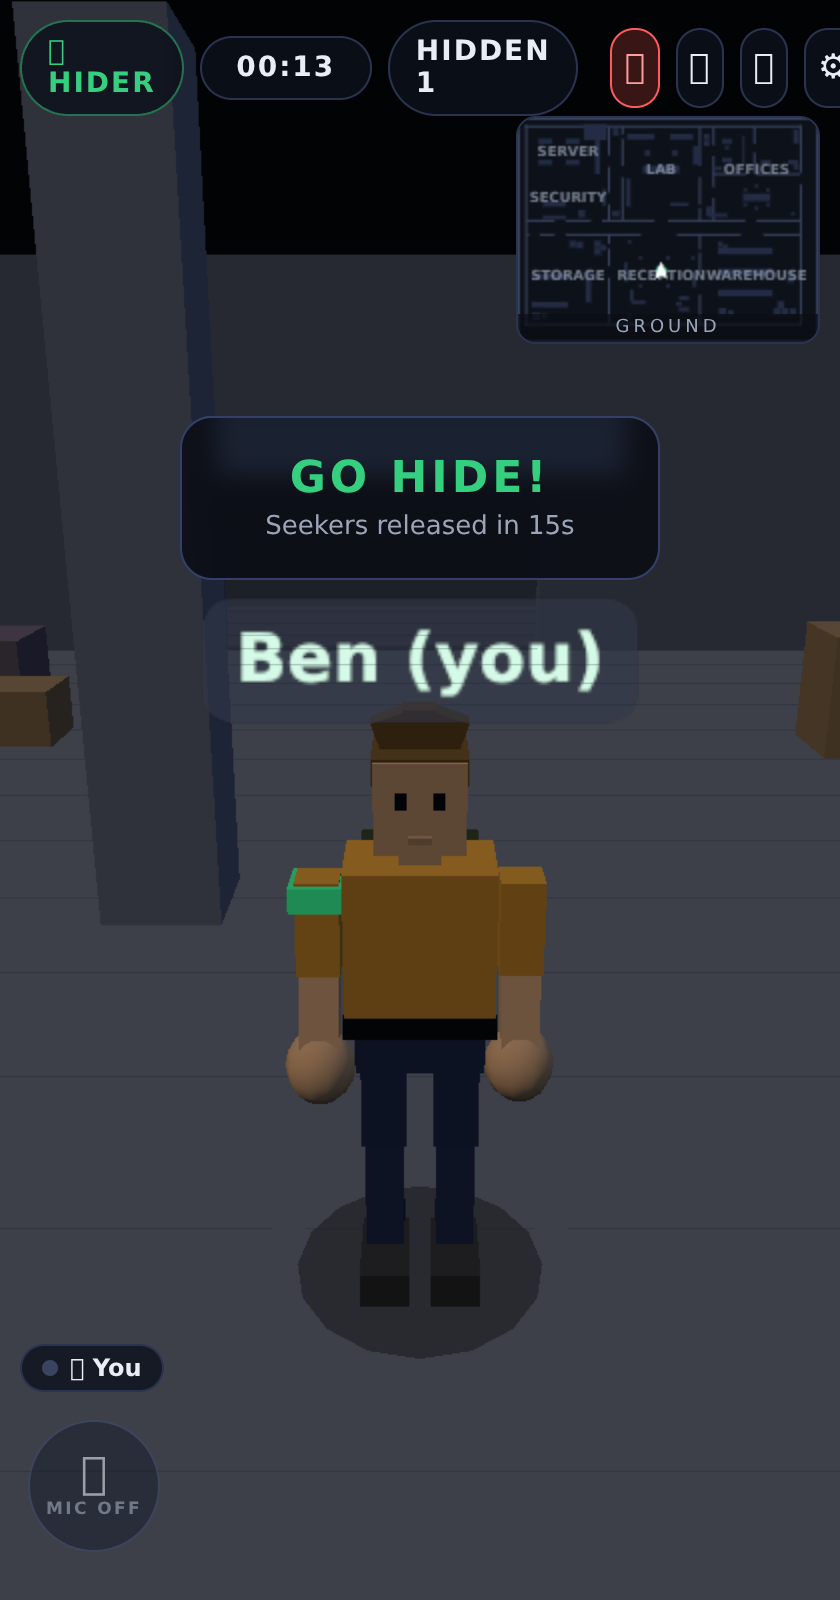
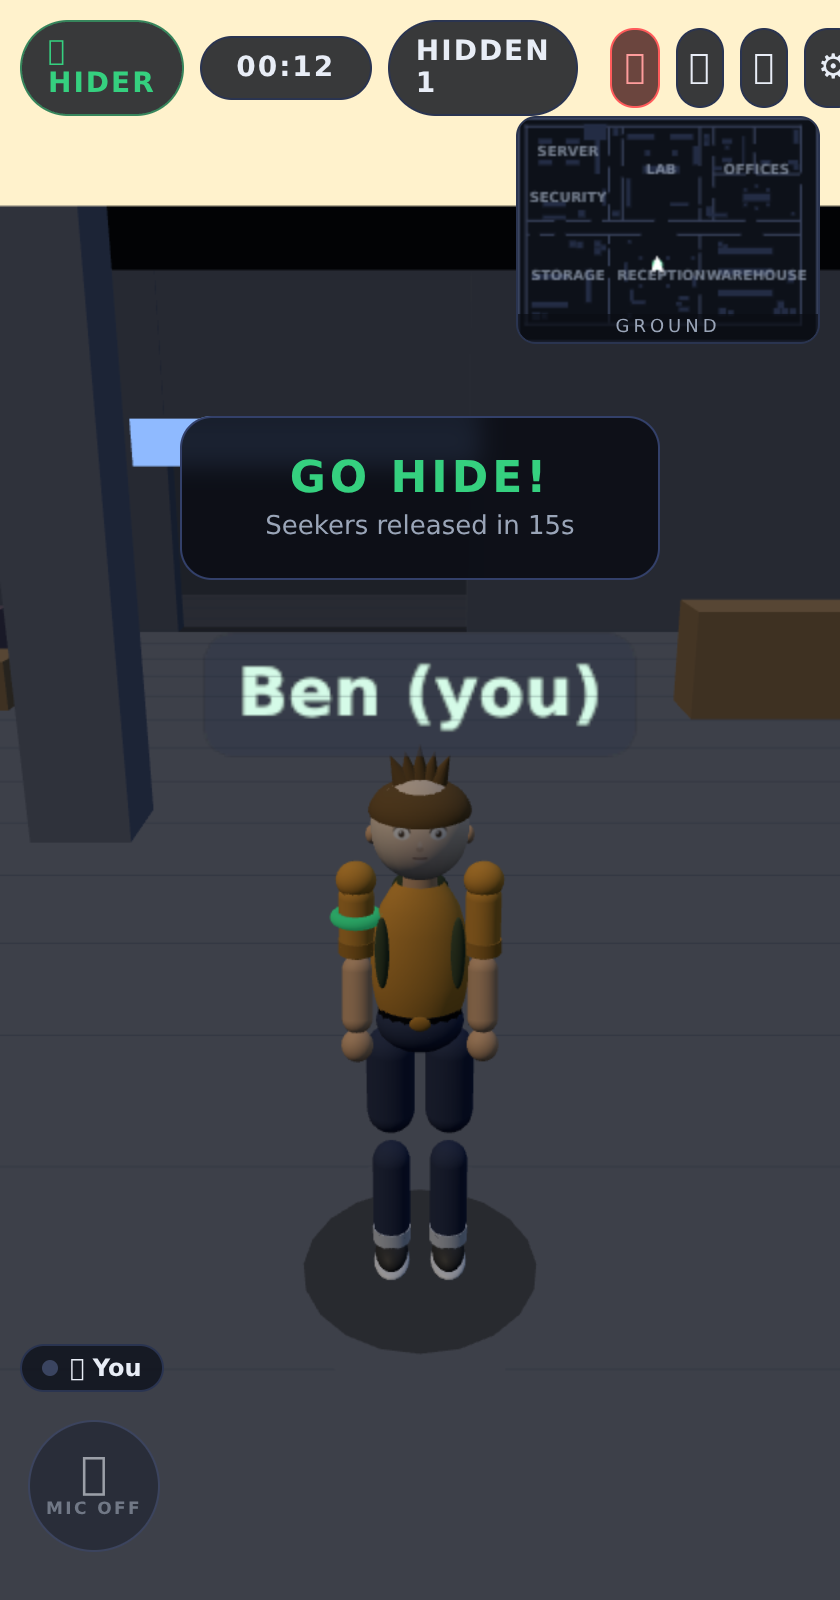
docs: refresh README screenshots with painted-face characters + crates; document new tools
Regenerates lobby/hider-prep/seeker-find/results with the new characters
and supply crates in-world; documents browser-matrix, playtest-panel, and
map-screenshots in BROWSER-TOOLS.md.

diff --git a/hide-and-seek/tools/BROWSER-TOOLS.md b/hide-and-seek/tools/BROWSER-TOOLS.md
@@ -1,8 +1,9 @@
 # Browser test tools (optional)
 
-`browser-smoke.mjs`, `browser-e2e.mjs`, `browser-screenshots.mjs` run the
-client in real headless Chromium. They are OPTIONAL — the server and unit/
-integration test suites need nothing beyond `npm install`.
+`browser-smoke.mjs`, `browser-e2e.mjs`, `browser-matrix.mjs`,
+`map-screenshots.mjs`, `browser-screenshots.mjs` and `playtest-panel.mjs`
+run the client in real headless Chromium. They are OPTIONAL — the server
+and unit/integration test suites need nothing beyond `npm install`.
 
 To use them:
 
@@ -10,12 +11,33 @@ To use them:
     node -e "import('@sparticuz/chromium').then(c=>c.default.executablePath())"
     # extract the bundled runtime libs once (Debian/Ubuntu hosts):
     mkdir -p /tmp/chr-libs
-    node -e "const z=require('zlib'),f=require('fs');f.writeFileSync('/tmp/al2023.tar',z.brotliDecompressSync(f.readFileSync('node_modules/@sparticuz/chromium/bin/al2023.tar.br')))"
+    node -e "const z=require('zlib'),f=require('fs');f.writeFileSync('/tmp/al2023.tar',z.brotliDecompressSync(f.readFileSync('node_modules/@sparticuz/chromium/bin/al2023.tar.br')))\"
     tar -xf /tmp/al2023.tar -C /tmp/chr-libs
 
     npm start &                # server on :8080
     node tools/browser-smoke.mjs
     node tools/browser-e2e.mjs
+    node tools/browser-matrix.mjs      # the strict-tester suite (106 checks)
+    node tools/map-screenshots.mjs     # one in-world shot per map
+    node tools/browser-screenshots.mjs # the README screenshots
+    node tools/playtest-panel.mjs      # 100-persona playtest + 99/100 gate
+
+### What each does
+
+- **browser-matrix.mjs** — the strict-tester suite: desktop WASD + real
+  mouse-look convention, iPhone-13 touch (joystick/sprint/jump driven by
+  synthesized touch), a real WebRTC mic exchange between two contexts (fake
+  mics), measurable WebAudio (footsteps/jump/land actually scheduled),
+  supply-crate pickup, host kick/remove-bot, a full match (FIND gating at
+  8 m / 2.5 m / 1.8 m), and edge cases (rejoin, host migration, room full).
+  **Zero console errors are allowed; any check failure fails the run.**
+- **playtest-panel.mjs** — records real gameplay (one session per map) and
+  scores it with 100 persona-driven evaluators (Battle-Royale veterans,
+  Among-Us sneaks, mobile casuals, …). It reports the panel's opinion only
+  if **99/100 approve** (your gate); otherwise it lists who rejected and why.
+  It is automated evaluation over real telemetry, not 100 human players.
+- **map-screenshots.mjs / browser-screenshots.mjs** — capture the README
+  images (one in-world shot per map, plus lobby/hider/seeker/results).
 
 (On hosts with a normal Chrome/Chromium installed, edit the launch call to
 `executablePath: <your chrome>` and drop the LD_LIBRARY_PATH env instead.)
